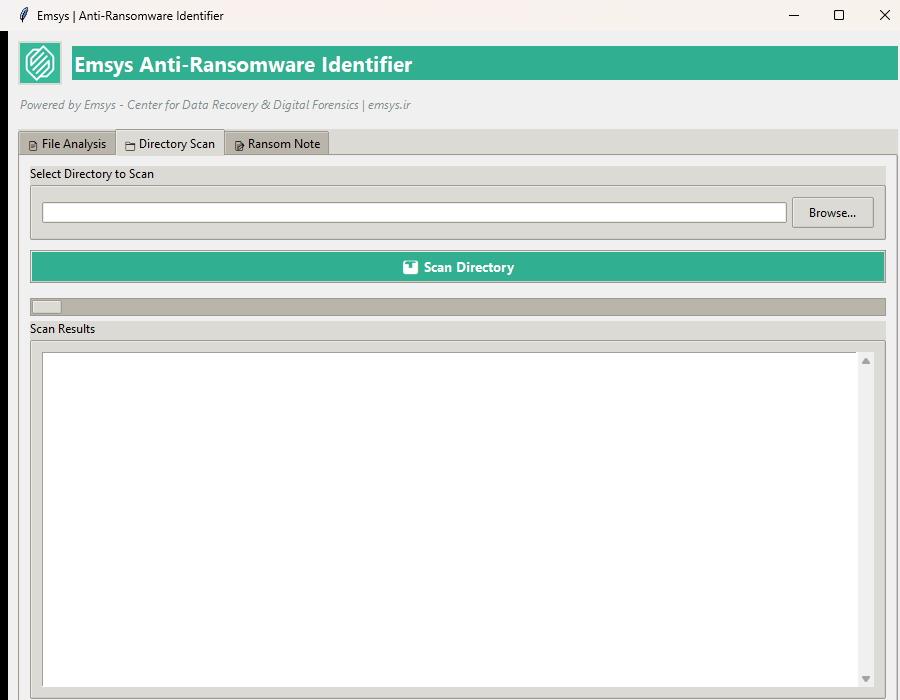
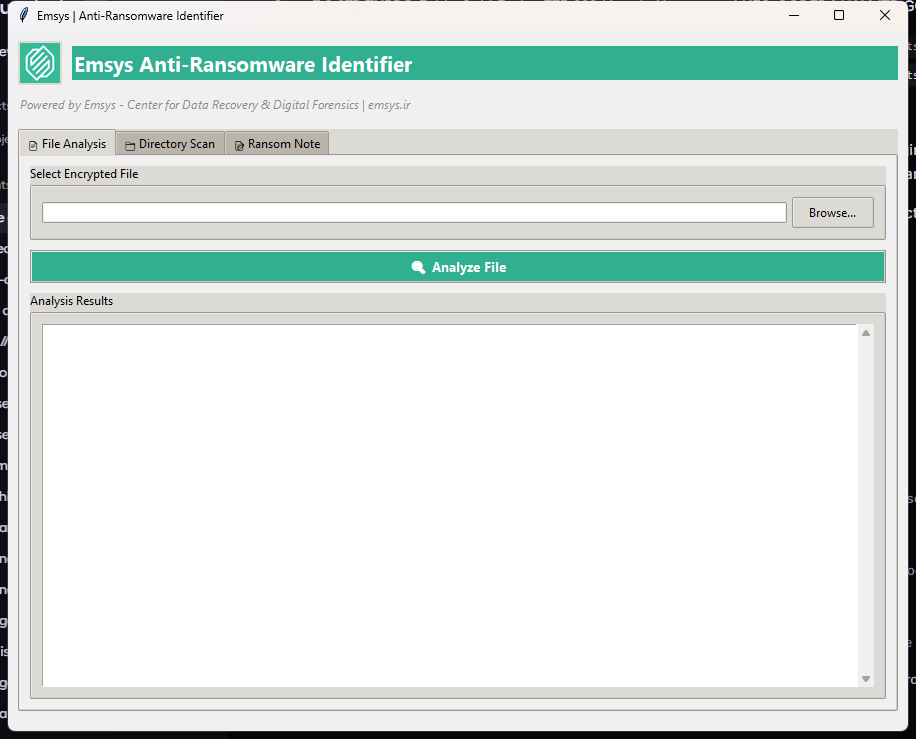
Update README with accurate description and fresh screenshots of Tkinter GUI

diff --git a/README.md b/README.md
@@ -1,6 +1,6 @@
 "# Emsys Anti-Ransomware Identifier
 
-A command-line tool that examines input files to identify possible ransomware types. Uses extension matching, ransom note content analysis, and file signature detection.
+A cross-platform anti-ransomware identification system with both CLI and GUI interfaces. Examines encrypted files and ransom notes to identify the ransomware family using extension matching, content analysis, and file signature detection. Built with Python and Tkinter for a native-looking desktop experience.
 
 ## Features
 
